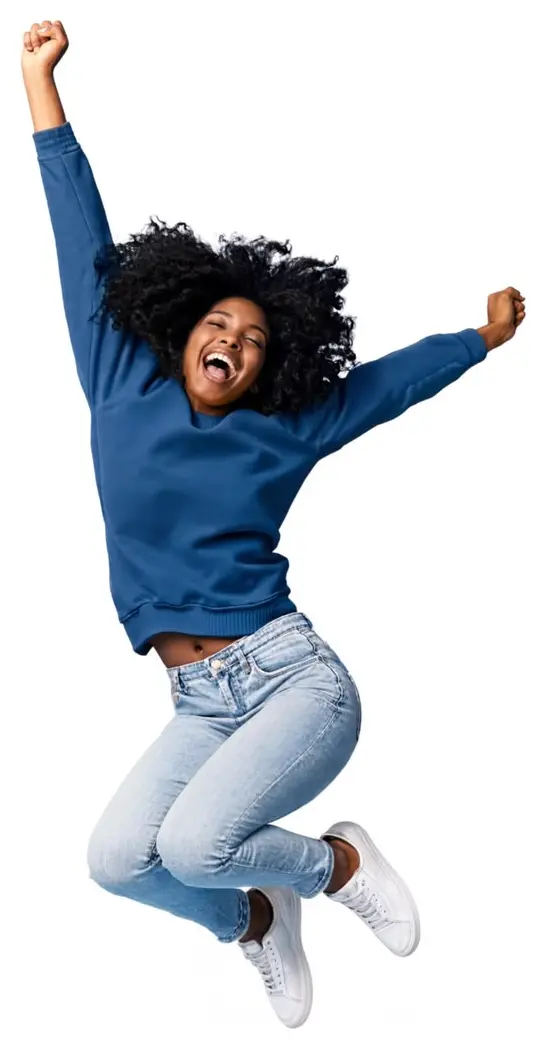
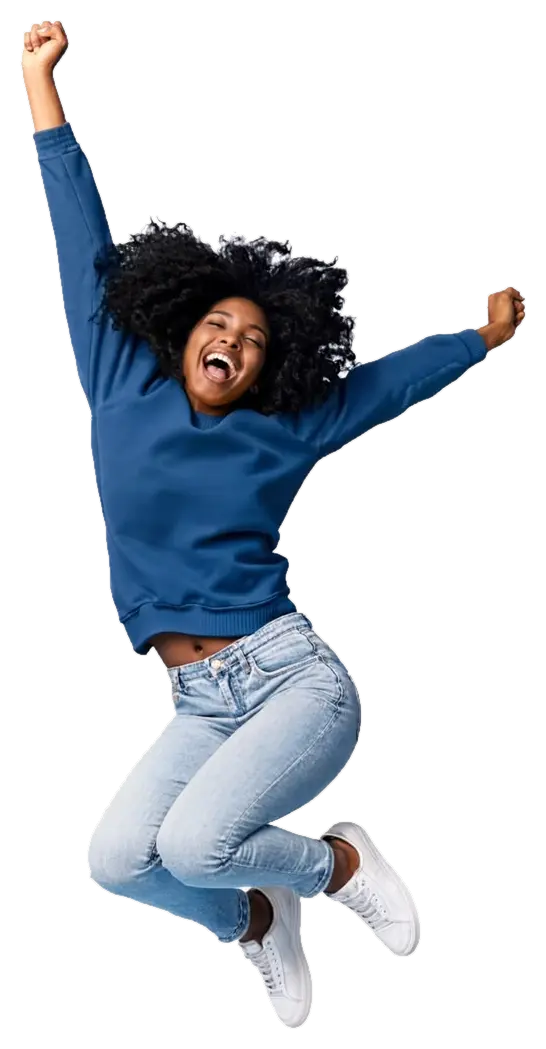
feat(chatbot): affiche la conversation dans une fenêtre
- chatbot en fenêtre centrée (880 px) sur ordinateur, détachée des bords
  sur mobile
- photo de l'appel final détourée : plus de rectangle blanc en sombre

diff --git a/frontend/src/app/features/chatbot/chatbot.component.scss b/frontend/src/app/features/chatbot/chatbot.component.scss
@@ -1,13 +1,31 @@
+// La conversation est une fenêtre posée sur le fond de la page, comme sur
+// la maquette : légèrement détachée des bords sur mobile, centrée sur ordinateur.
 :host {
   display: block;
   height: 100vh;
+  height: 100dvh;
+  padding: 12px;
+  background: var(--ss-fond);
+
+  @media (min-width: 900px) {
+    padding: var(--ss-espace-5) var(--ss-espace-3);
+  }
 }
 
 .cb {
   display: flex;
   flex-direction: column;
-  height: 100vh;
-  background: linear-gradient(180deg, var(--ss-surface-legere), var(--ss-fond-public) 40%);
+  height: 100%;
+  overflow: hidden;
+  border: 1px solid var(--ss-bordure);
+  border-radius: var(--ss-rayon-carte);
+  background: linear-gradient(180deg, var(--ss-surface-legere), var(--ss-surface) 40%);
+  box-shadow: var(--ss-ombre-forte);
+
+  @media (min-width: 900px) {
+    max-width: 880px;
+    margin: 0 auto;
+  }
 }
 
 // --- En-tête ---------------------------------------------------------------
@@ -17,11 +35,11 @@
   align-items: center;
   gap: var(--ss-espace-2);
   flex-wrap: wrap;
-  padding: var(--ss-espace-2) var(--ss-marge-mobile);
+  padding: var(--ss-espace-2);
   background: var(--ss-surface-douce);
 
   @media (min-width: 900px) {
-    padding: var(--ss-espace-2) var(--ss-marge-desktop);
+    padding: var(--ss-espace-2) var(--ss-espace-3);
   }
 }
 
@@ -135,16 +153,13 @@
 .cb__zone {
   flex: 1;
   overflow-y: auto;
-  padding: var(--ss-espace-3) var(--ss-marge-mobile);
+  padding: var(--ss-espace-3) var(--ss-espace-2);
   display: flex;
   flex-direction: column;
   gap: var(--ss-espace-3);
 
   @media (min-width: 900px) {
-    padding: var(--ss-espace-4) var(--ss-marge-desktop);
-    max-width: 900px;
-    margin: 0 auto;
-    width: 100%;
+    padding: var(--ss-espace-4);
   }
 }
 
@@ -324,10 +339,10 @@
 .cb__pied {
   background: var(--ss-surface);
   border-top: 1px solid var(--ss-bordure);
-  padding: var(--ss-espace-2) var(--ss-marge-mobile);
+  padding: var(--ss-espace-2);
 
   @media (min-width: 900px) {
-    padding: var(--ss-espace-3) var(--ss-marge-desktop);
+    padding: var(--ss-espace-3) var(--ss-espace-4);
   }
 }
 
